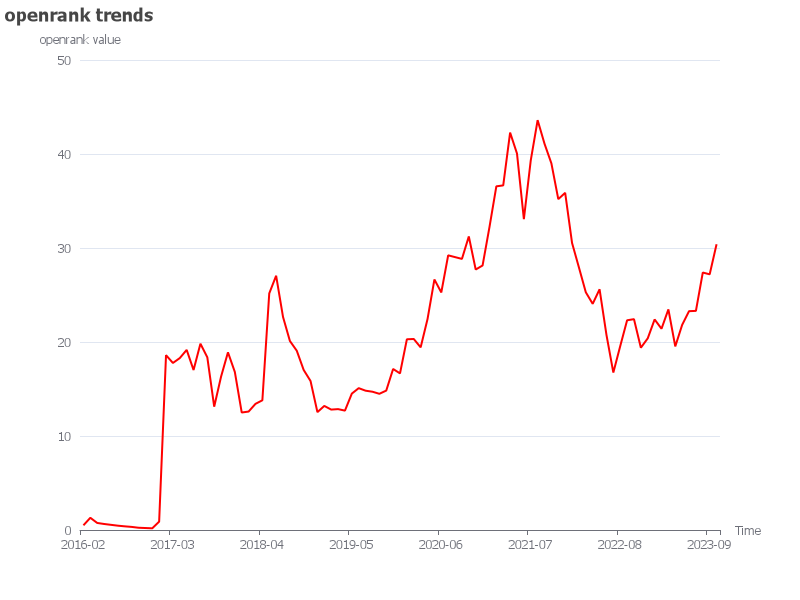
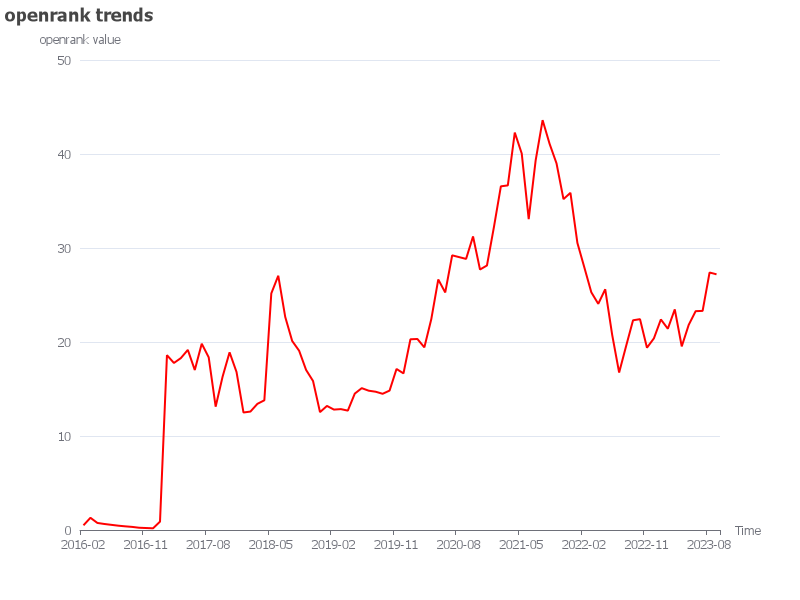
Fix some data display

diff --git a/dist/utils/downloadUtils/downloadResult.js b/dist/utils/downloadUtils/downloadResult.js
@@ -40,6 +40,10 @@ function renderChart(metric, metricData) {
     // 使用 echarts, canvas + SSR
     const canvas = (0, canvas_1.createCanvas)(800, 600);
     const chart = echarts.init(canvas);
+    let metricArr = Object.entries(metricData);
+    if (metricArr[metricArr.length - 1][0].includes('raw')) {
+        metricArr = metricArr.slice(0, metricArr.length - 1);
+    }
     const option = {
         title: {
             text: `${metric} trends`,
@@ -47,7 +51,6 @@ function renderChart(metric, metricData) {
         xAxis: {
             name: 'Time',
             type: 'category',
-            data: Object.keys(metricData),
         },
         yAxis: {
             name: `${metric} value`,
@@ -56,7 +59,7 @@ function renderChart(metric, metricData) {
         series: [
             {
                 name: `${metric}`,
-                data: Object.values(metricData),
+                data: metricArr,
                 type: 'line',
                 lineStyle: {
                     color: 'red',
@@ -126,15 +129,27 @@ function downloadResult(data, argv, metricData) {
             const keys = Object.keys(metricData);
             const values = Object.values(metricData);
             const rows = Math.ceil(keys.length / 4);
+            let metricArr = Object.entries(metricData);
+            if (metricArr[metricArr.length - 1][0].includes('raw')) {
+                metricArr = metricArr.slice(0, metricArr.length - 1);
+            }
             for (let row = 0; row < rows; row++) {
                 let rowString = ``;
                 for (let column = 0; column < 4; column++) {
                     const index = row + column * rows;
-                    if (index < keys.length) {
-                        const key = keys[index];
-                        const value = values[index];
+                    if (index < metricArr.length) {
+                        const key = metricArr[index][0];
+                        const value = metricArr[index][1];
                         rowString += `|${key}: ${value}`;
                     }
+                    // else if (index === keys.length - 1) {
+                    // 	const key = keys[index];
+                    // 	if (key.includes('raw')) {
+                    // 		return;
+                    // 	}
+                    // 	const value = values[index];
+                    // 	rowString += `|${key}: ${value}|\n`;
+                    // }
                 }
                 result += rowString + '|\n';
             }

diff --git a/src/utils/downloadUtils/downloadAll.ts b/src/utils/downloadUtils/downloadAll.ts
@@ -12,6 +12,10 @@ function renderChart(metric: any, metricData: MetricIndexedData) {
 	// 使用 echarts, canvas + SSR
 	const canvas: any = createCanvas(800, 600);
 	const chart = echarts.init(canvas);
+	let metricArr = Object.entries(metricData);
+	if (metricArr[metricArr.length - 1][0].includes('raw')) {
+		metricArr = metricArr.slice(0, metricArr.length - 1);
+	}
 
 	const option: any = {
 		title: {
@@ -20,7 +24,6 @@ function renderChart(metric: any, metricData: MetricIndexedData) {
 		xAxis: {
 			name: 'Time',
 			type: 'category',
-			data: Object.keys(metricData),
 		},
 		yAxis: {
 			name: `${metric} value`,
@@ -29,7 +32,7 @@ function renderChart(metric: any, metricData: MetricIndexedData) {
 		series: [
 			{
 				name: `${metric}`,
-				data: Object.values(metricData),
+				data: metricArr,
 				type: 'line',
 				lineStyle: {
 					color: 'red',
@@ -137,14 +140,18 @@ export const downloadAll = async(data: any, argv: any) => {
                     const keys = Object.keys(metricData)
                     const values = Object.values(metricData)
                     const rows = Math.ceil(keys.length / 4);
+					let metricArr = Object.entries(metricData);
+					if (metricArr[metricArr.length - 1][0].includes('raw')) {
+						metricArr = metricArr.slice(0, metricArr.length - 1);
+					}
                     for (let row = 0; row < rows; row++) {
                         let rowString: string = ``;
                         for (let column = 0; column < 4; column++) {
                             const index = row + column * rows;
-                            if (index < keys.length) {
-                                const key = keys[index];
-                                const value = values[index];
-                                rowString += `|${key}: ${value}`;
+                            if (index < metricArr.length) {
+                                const key = metricArr[index][0];
+								const value = metricArr[index][1];
+								rowString += `|${key}: ${value}`;
                             }
                         }
                         table += rowString + '|\n';

diff --git a/src/utils/downloadUtils/downloadResult.ts b/src/utils/downloadUtils/downloadResult.ts
@@ -11,6 +11,10 @@ function renderChart(metric: any, metricData: MetricIndexedData) {
 	// 使用 echarts, canvas + SSR
 	const canvas: any = createCanvas(800, 600);
 	const chart = echarts.init(canvas);
+	let metricArr = Object.entries(metricData);
+	if (metricArr[metricArr.length - 1][0].includes('raw')) {
+		metricArr = metricArr.slice(0, metricArr.length - 1);
+	}
 
 	const option: any = {
 		title: {
@@ -19,7 +23,6 @@ function renderChart(metric: any, metricData: MetricIndexedData) {
 		xAxis: {
 			name: 'Time',
 			type: 'category',
-			data: Object.keys(metricData),
 		},
 		yAxis: {
 			name: `${metric} value`,
@@ -28,7 +31,7 @@ function renderChart(metric: any, metricData: MetricIndexedData) {
 		series: [
 			{
 				name: `${metric}`,
-				data: Object.values(metricData),
+				data: metricArr,
 				type: 'line',
 				lineStyle: {
 					color: 'red',
@@ -108,21 +111,31 @@ export async function downloadResult(data: any, argv: any, metricData: MetricInd
 		const keys = Object.keys(metricData);
 		const values = Object.values(metricData);
 		const rows = Math.ceil(keys.length / 4);
+		let metricArr = Object.entries(metricData);
+		if (metricArr[metricArr.length - 1][0].includes('raw')) {
+			metricArr = metricArr.slice(0, metricArr.length - 1);
+		}
 		for (let row = 0; row < rows; row++) {
 			let rowString: string = ``;
 			for (let column = 0; column < 4; column++) {
 				const index = row + column * rows;
-				if (index < keys.length) {
-					const key = keys[index];
-					const value = values[index];
+				if (index < metricArr.length ) {
+					const key = metricArr[index][0];
+					const value = metricArr[index][1];
 					rowString += `|${key}: ${value}`;
-				}
+				} 
+				// else if (index === keys.length - 1) {
+				// 	const key = keys[index];
+				// 	if (key.includes('raw')) {
+				// 		return;
+				// 	}
+				// 	const value = values[index];
+				// 	rowString += `|${key}: ${value}|\n`;
+				// }
 			}
 			result += rowString + '|\n';
 		}
 		outputData += result;
-		
-
 		
 
 		fs.writeFile(downloadUrl, outputData, (err: any) => {

diff --git a/dist/index.js b/dist/index.js
@@ -37,26 +37,20 @@ module.exports = (() => __awaiter(void 0, void 0, void 0, function* () {
         .options({
         r: {
             alias: 'repository',
-            demand: false,
-            describe: '指定查询的仓库，默认为 X-lab2017/oss101',
-            type: 'string'
-        },
-        u: {
-            alias: 'user',
-            demand: false,
-            describe: '查询特定的用户，默认为 X-lab2017',
+            demand: true,
+            describe: '指定查询的仓库',
             type: 'string'
         },
         d: {
             alias: 'download',
             demand: false,
-            describe: '是否将结果导出，输入此选择，即为true',
+            describe: '是否将结果导出，输入此选项，即为 true',
             type: 'boolean'
         },
         m: {
             alias: 'metric',
             demand: false,
-            describe: '是否查询特殊的metric，默认为openrank',
+            describe: '是否指定 metric 查询',
             type: 'string'
         },
         t: {
@@ -69,7 +63,7 @@ module.exports = (() => __awaiter(void 0, void 0, void 0, function* () {
         .help('h')
         .alias('h', 'help')
         .usage('Usage: opendigger [options]')
-        .example('opendigger -r X-lab2017/oss101 -d -m openrank -t 2020-01-01', '查询 X-lab2017/oss101 仓库在 2020-01-01 的 openrank 值，并将结果导出到 ./opendigger-output 文件夹下')
+        .example('opendigger -r X-lab2017/oss101 -d -m openrank -t 2023-01', '查询 X-lab2017/oss101 仓库在 2023-01 的 openrank 值，并将结果导出到 ./opendigger-output 文件夹下')
         .epilog('Copyright © 2023 LazyAnasis. All Rights Reserved.').argv;
     // console.log('argvr', argv.r)
     if (argv.r) {

diff --git a/src/index.ts b/src/index.ts
@@ -40,26 +40,20 @@ module.exports = (async () => {
 		.options({
 			r: {
 				alias: 'repository',
-				demand: false,
-				describe: '指定查询的仓库，默认为 X-lab2017/oss101',
-				type: 'string'
-			},
-			u: {
-				alias: 'user',
-				demand: false,
-				describe: '查询特定的用户，默认为 X-lab2017',
+				demand: true,
+				describe: '指定查询的仓库',
 				type: 'string'
 			},
 			d: {
 				alias: 'download',
 				demand: false,
-				describe: '是否将结果导出，输入此选择，即为true',
+				describe: '是否将结果导出，输入此选项，即为 true',
 				type: 'boolean'
 			},
 			m: {
 				alias: 'metric',
 				demand: false,
-				describe: '是否查询特殊的metric，默认为openrank',
+				describe: '是否指定 metric 查询',
 				type: 'string'
 			},
 			t: {
@@ -73,8 +67,8 @@ module.exports = (async () => {
 		.alias('h', 'help')
 		.usage('Usage: opendigger [options]')
 		.example(
-			'opendigger -r X-lab2017/oss101 -d -m openrank -t 2020-01-01',
-			'查询 X-lab2017/oss101 仓库在 2020-01-01 的 openrank 值，并将结果导出到 ./opendigger-output 文件夹下'
+			'opendigger -r X-lab2017/oss101 -d -m openrank -t 2023-01',
+			'查询 X-lab2017/oss101 仓库在 2023-01 的 openrank 值，并将结果导出到 ./opendigger-output 文件夹下'
 		)
 		.epilog('Copyright © 2023 LazyAnasis. All Rights Reserved.').argv;
 

diff --git a/dist/utils/commonUtils.js b/dist/utils/commonUtils.js
@@ -30,13 +30,17 @@ function printDataInColumns(data) {
     const values = Object.values(data);
     // 分成四列打印
     const rows = Math.ceil(keys.length / 4);
+    let metricArr = Object.entries(data);
+    if (metricArr[metricArr.length - 1][0].includes('raw')) {
+        metricArr = metricArr.slice(0, metricArr.length - 1);
+    }
     for (let row = 0; row < rows; row++) {
         let rowString = ``;
         for (let column = 0; column < 4; column++) {
             const index = row + column * rows;
-            if (index < keys.length) {
-                const key = keys[index];
-                const value = values[index];
+            if (index < metricArr.length) {
+                const key = metricArr[index][0];
+                const value = metricArr[index][1];
                 rowString += `${key}: ${value}\t\t`;
             }
         }

diff --git a/src/utils/commonUtils.ts b/src/utils/commonUtils.ts
@@ -33,14 +33,18 @@ function printDataInColumns(data: MetricIndexedData) {
 	const values = Object.values(data);
 	// 分成四列打印
 	const rows = Math.ceil(keys.length / 4);
+	let metricArr = Object.entries(data);
+	if (metricArr[metricArr.length - 1][0].includes('raw')) {
+		metricArr = metricArr.slice(0, metricArr.length - 1);
+	}
 
 	for (let row = 0; row < rows; row++) {
 		let rowString: string = ``;
 		for (let column = 0; column < 4; column++) {
 			const index = row + column * rows;
-			if (index < keys.length) {
-				const key = keys[index];
-				const value = values[index];
+			if (index < metricArr.length) {
+				const key = metricArr[index][0];
+				const value = metricArr[index][1];
 				rowString += `${key}: ${value}\t\t`;
 			}
 		}

diff --git a/opendigger-output/valhalla/valhalla-openrank.md b/opendigger-output/valhalla/valhalla-openrank.md
@@ -9,9 +9,9 @@
 ![openrank trends](./openrank.png)
 | Dates and openrank: | | | |
 | --- | --- | --- | --- |
-|2016-02: 0.50|2018-02: 12.60|2020-02: 20.32|2022-02: 27.93|
-|2016-03: 1.30|2018-03: 13.42|2020-03: 19.43|2022-03: 25.29|
-|2016-04: 0.75|2018-04: 13.80|2020-04: 22.44|2022-04: 24.06|
+|2016-02: 0.5|2018-02: 12.6|2020-02: 20.32|2022-02: 27.93|
+|2016-03: 1.3|2018-03: 13.42|2020-03: 19.43|2022-03: 25.29|
+|2016-04: 0.75|2018-04: 13.8|2020-04: 22.44|2022-04: 24.06|
 |2016-05: 0.64|2018-05: 25.17|2020-05: 26.65|2022-05: 25.61|
 |2016-06: 0.55|2018-06: 27.05|2020-06: 25.27|2022-06: 20.76|
 |2016-07: 0.46|2018-07: 22.67|2020-07: 29.22|2022-07: 16.75|
@@ -20,16 +20,16 @@
 |2016-10: 0.24|2018-10: 17.03|2020-10: 31.23|2022-10: 22.43|
 |2016-11: 0.21|2018-11: 15.85|2020-11: 27.71|2022-11: 19.39|
 |2016-12: 0.18|2018-12: 12.54|2020-12: 28.14|2022-12: 20.39|
-|2017-01: 0.89|2019-01: 13.20|2021-01: 32.22|2023-01: 22.40|
-|2017-02: 18.60|2019-02: 12.81|2021-02: 36.56|2023-02: 21.41|
+|2017-01: 0.89|2019-01: 13.2|2021-01: 32.22|2023-01: 22.4|
+|2017-02: 18.6|2019-02: 12.81|2021-02: 36.56|2023-02: 21.41|
 |2017-03: 17.77|2019-03: 12.86|2021-03: 36.66|2023-03: 23.47|
-|2017-04: 18.29|2019-04: 12.70|2021-04: 42.28|2023-04: 19.53|
+|2017-04: 18.29|2019-04: 12.7|2021-04: 42.28|2023-04: 19.53|
 |2017-05: 19.16|2019-05: 14.51|2021-05: 40.05|2023-05: 21.82|
 |2017-06: 17.02|2019-06: 15.09|2021-06: 33.07|2023-06: 23.28|
 |2017-07: 19.82|2019-07: 14.82|2021-07: 39.32|2023-07: 23.31|
-|2017-08: 18.37|2019-08: 14.71|2021-08: 43.60|2023-08: 27.39|
-|2017-09: 13.12|2019-09: 14.49|2021-09: 41.09|2023-09: 27.20|
-|2017-10: 16.32|2019-10: 14.83|2021-10: 39.00|2021-10-raw: 30.40|
-|2017-11: 18.90|2019-11: 17.13|2021-11: 35.20|
+|2017-08: 18.37|2019-08: 14.71|2021-08: 43.6|2023-08: 27.39|
+|2017-09: 13.12|2019-09: 14.49|2021-09: 41.09|2023-09: 27.2|
+|2017-10: 16.32|2019-10: 14.83|2021-10: 39|
+|2017-11: 18.9|2019-11: 17.13|2021-11: 35.2|
 |2017-12: 16.81|2019-12: 16.66|2021-12: 35.87|
-|2018-01: 12.50|2020-01: 20.29|2022-01: 30.54|
+|2018-01: 12.5|2020-01: 20.29|2022-01: 30.54|
